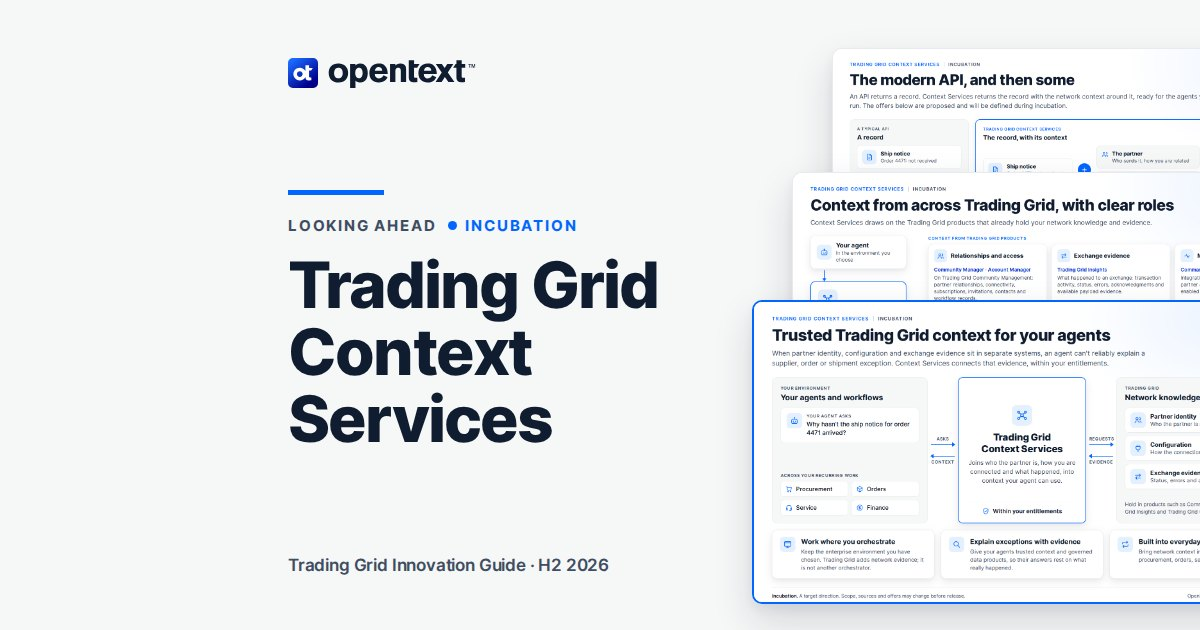
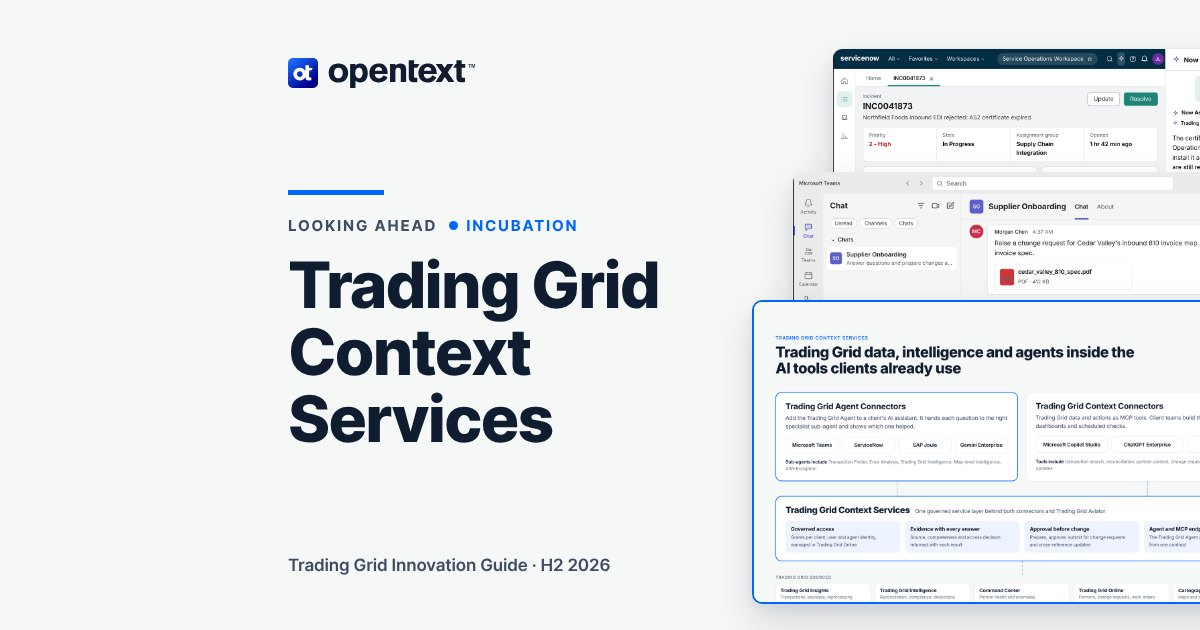
Context Services: new image set and incubation copy
Replace three Context Services images with the eight-image set (overview first,
seven prototype screens as gallery). Rewrite the entry from the image pack README.

Claude-Session: https://claude.ai/code/session_01FnMVd4489f9zxHZrqbzcah

diff --git a/site/index.html b/site/index.html
@@ -4240,17 +4240,19 @@ footer .ftop svg{flex:none}
   <div class="hd">
     <div class="label lbl">Trading Grid Context Services</div>
     <div class="ttl"><h3>Trading Grid Context Services</h3><span class="ga pv">Incubation</span></div>
-    <p class="deck">Trusted Trading Grid context for the AI agents and workflows you already use.</p>
+    <p class="deck">Trading Grid data, intelligence and agents inside the AI tools clients already use.</p>
   </div>
   <figure class="gal">
-    <button type="button" class="zoom" data-src="img/2026-h2/tgcs-why.png" aria-label="View full size: Your agents ask from the environment you choose, and Context Services returns partner, configuration and exchange evidence from Trading Grid, within your entitlements."><img src="img/2026-h2/tgcs-why.png" width="1672" height="941" alt="Diagram. On the left, your agents and workflows in your environment, with an agent asking why the ship notice for order 4471 has not arrived, across procurement, orders, service and finance. In the middle, Trading Grid Context Services, within your entitlements. On the right, Trading Grid network knowledge and evidence: partner identity, configuration and exchange evidence. Below, three outcomes: work where you orchestrate, explain exceptions with evidence, and built into everyday work."><span class="zi"><svg width="16" height="16" viewBox="0 0 16 16" aria-hidden="true" focusable="false"><path d="M9.5 2.5h4v4M13.5 2.5 9 7M6.5 13.5h-4v-4M2.5 13.5 7 9" fill="none" stroke="currentColor" stroke-width="1.5" stroke-linecap="round" stroke-linejoin="round"/></svg></span></button>
-    <figcaption aria-live="polite"><span class="stp">1 of 3</span> <span class="cap">Your agents ask from the environment you choose, and Context Services returns partner, configuration and exchange evidence from Trading Grid, within your entitlements.</span> <button type="button" class="vfs" tabindex="-1" aria-hidden="true">View full size</button></figcaption>
-    <div class="thumbs" role="group" aria-label="More pictures of Trading Grid Context Services"><button type="button" class="th" data-i="0" data-src="img/2026-h2/tgcs-why.png" data-w="1672" data-h="941" data-alt="Diagram. On the left, your agents and workflows in your environment, with an agent asking why the ship notice for order 4471 has not arrived, across procurement, orders, service and finance. In the middle, Trading Grid Context Services, within your entitlements. On the right, Trading Grid network knowledge and evidence: partner identity, configuration and exchange evidence. Below, three outcomes: work where you orchestrate, explain exceptions with evidence, and built into everyday work." data-cap="Your agents ask from the environment you choose, and Context Services returns partner, configuration and exchange evidence from Trading Grid, within your entitlements." data-short="Why Context Services" aria-label="Show screenshot 1 of 3: Why Context Services" hidden><img src="img/2026-h2/tgcs-why.png" width="1672" height="941" alt="" loading="lazy"><span class="tl"><span class="n">1</span>Why Context Services</span></button><button type="button" class="th" data-i="1" data-src="img/2026-h2/tgcs-sources.png" data-w="1672" data-h="941" data-alt="Diagram. Your agent connects through Trading Grid Context Services to context from Trading Grid products: relationships and access from Community Manager and Account Manager on Trading Grid Community Management; exchange evidence from Trading Grid Insights; monitoring from Command Center Integration Monitor; integration from Trading Grid Cartographer; change and provisioning from Trading Grid Community Projects and Community Provisioning Services; and bounded investigation from Trading Grid Aviator. Governed data products follow the catalog access path from the Trading Grid Data Explorer MCP interface to Trading Grid Data Platform." data-cap="Each Trading Grid source has a clear role, and governed data products are reached through the Trading Grid Data Explorer MCP interface, limited to what you are entitled to." data-short="Where the context comes from" aria-label="Show screenshot 2 of 3: Where the context comes from"><img src="img/2026-h2/tgcs-sources.png" width="1672" height="941" alt="" loading="lazy"><span class="tl"><span class="n">2</span>Where the context comes from</span></button><button type="button" class="th" data-i="2" data-src="img/2026-h2/tgcs-offers.png" data-w="1672" data-h="941" data-alt="Comparison. A typical API returns a ship notice record for order 4471 that has not been received. Context Services returns the same record plus the partner, the connection, the exchange and the changes around it. Below, three proposed offers: maintained context capabilities, cataloged data products, and specialized investigations once defined. Footer points: your own agents, your entitlements, your recurring work." data-cap="The modern API, and then some: the record with the network context around it, and three proposed offers to use with your own agents." data-short="What you could use" aria-label="Show screenshot 3 of 3: What you could use"><img src="img/2026-h2/tgcs-offers.png" width="1672" height="941" alt="" loading="lazy"><span class="tl"><span class="n">3</span>What you could use</span></button></div>
+    <button type="button" class="zoom" data-src="img/2026-h2/tgcs-overview.webp" aria-label="View full size: Trading Grid Context Services powers Trading Grid Agent Connectors and Trading Grid Context Connectors."><img src="img/2026-h2/tgcs-overview.webp" width="1600" height="1000" alt="Diagram. Two panels at the top: Trading Grid Agent Connectors (Microsoft Teams, ServiceNow, SAP Joule, Gemini Enterprise) and Trading Grid Context Connectors (Microsoft Copilot Studio, ChatGPT Enterprise, Claude). Both connect to a Trading Grid Context Services layer with governed access, evidence with every answer, approval before change, and agent and MCP endpoints. That layer draws on Trading Grid Insights, Trading Grid Intelligence, Command Center, Trading Grid Online and Cartographer."><span class="zi"><svg width="16" height="16" viewBox="0 0 16 16" aria-hidden="true" focusable="false"><path d="M9.5 2.5h4v4M13.5 2.5 9 7M6.5 13.5h-4v-4M2.5 13.5 7 9" fill="none" stroke="currentColor" stroke-width="1.5" stroke-linecap="round" stroke-linejoin="round"/></svg></span></button>
+    <figcaption aria-live="polite"><span class="stp">1 of 8</span> <span class="cap">Trading Grid Context Services powers Trading Grid Agent Connectors and Trading Grid Context Connectors.</span> <button type="button" class="vfs" tabindex="-1" aria-hidden="true">View full size</button></figcaption>
+    <div class="thumbs" role="group" aria-label="More pictures of Trading Grid Context Services"><button type="button" class="th" data-i="0" data-src="img/2026-h2/tgcs-overview.webp" data-w="1600" data-h="1000" data-alt="Diagram. Two panels at the top: Trading Grid Agent Connectors (Microsoft Teams, ServiceNow, SAP Joule, Gemini Enterprise) and Trading Grid Context Connectors (Microsoft Copilot Studio, ChatGPT Enterprise, Claude). Both connect to a Trading Grid Context Services layer with governed access, evidence with every answer, approval before change, and agent and MCP endpoints. That layer draws on Trading Grid Insights, Trading Grid Intelligence, Command Center, Trading Grid Online and Cartographer." data-cap="Trading Grid Context Services powers Trading Grid Agent Connectors and Trading Grid Context Connectors." data-short="Overview" aria-label="Show screenshot 1 of 8: Overview" hidden><img src="img/2026-h2/tgcs-overview.webp" width="1600" height="1000" alt="" loading="lazy"><span class="tl"><span class="n">1</span>Overview</span></button><button type="button" class="th" data-i="1" data-src="img/2026-h2/tgcs-teams.webp" data-w="1600" data-h="999" data-alt="Microsoft Teams group chat. A message with an attached PDF asks for an inbound 810 invoice map change request. The Trading Grid Agent replies with a pending change request card listing the request, work order, reason, attachment and project, and an approval prompt." data-cap="In Microsoft Teams, the Trading Grid Agent prepares a partner map change request from an attached specification and waits for approval. Prototype; the released experience may differ." data-short="Microsoft Teams" aria-label="Show screenshot 2 of 8: Microsoft Teams"><img src="img/2026-h2/tgcs-teams.webp" width="1600" height="999" alt="" loading="lazy"><span class="tl"><span class="n">2</span>Microsoft Teams</span></button><button type="button" class="th" data-i="2" data-src="img/2026-h2/tgcs-servicenow.webp" data-w="1600" data-h="999" data-alt="ServiceNow Service Operations Workspace with an incident for rejected inbound EDI. The Now Assist panel shows the Trading Grid Agent with Connection Health Agent, a work order card (request accepted, certificate received and validated, install and connection test remaining, owner BN Support Operations, no completion estimate) and connection status." data-cap="In ServiceNow, Now Assist answers from Trading Grid with the status of a partner certificate fix, attributed to the Connection Health sub-agent. Prototype; the released experience may differ." data-short="ServiceNow" aria-label="Show screenshot 3 of 8: ServiceNow"><img src="img/2026-h2/tgcs-servicenow.webp" width="1600" height="999" alt="" loading="lazy"><span class="tl"><span class="n">3</span>ServiceNow</span></button><button type="button" class="th" data-i="3" data-src="img/2026-h2/tgcs-chatgpt.webp" data-w="1600" data-h="999" data-alt="ChatGPT Enterprise with a Task scheduled card (weekdays at 8:00 AM) and a table of three on-hold work orders listing hold reason, next action owner and on-hold date." data-cap="ChatGPT Enterprise schedules a weekday check of on-hold Trading Grid work orders and shows who owns the next action. Prototype; the released experience may differ." data-short="ChatGPT Enterprise" aria-label="Show screenshot 4 of 8: ChatGPT Enterprise"><img src="img/2026-h2/tgcs-chatgpt.webp" width="1600" height="999" alt="" loading="lazy"><span class="tl"><span class="n">4</span>ChatGPT Enterprise</span></button><button type="button" class="th" data-i="4" data-src="img/2026-h2/tgcs-joule.webp" data-w="1600" data-h="999" data-alt="SAP S/4HANA purchase order page with Joule open. Joule shows Trading Grid Agent with Trading Grid Intelligence Agent: 33 of 37 POs carry a flat 50 USD chargeback, 1,650 USD in total, split into approved and pending supplier review, with a donut chart of the 37 POs by acknowledgment outcome." data-cap="In SAP Joule, the Trading Grid Agent combines SAP purchase orders with Trading Grid Intelligence chargebacks for late or missing PO acknowledgments. Prototype; the released experience may differ." data-short="SAP Joule" aria-label="Show screenshot 5 of 8: SAP Joule"><img src="img/2026-h2/tgcs-joule.webp" width="1600" height="999" alt="" loading="lazy"><span class="tl"><span class="n">5</span>SAP Joule</span></button><button type="button" class="th" data-i="5" data-src="img/2026-h2/tgcs-copilot-studio.webp" data-w="1600" data-h="999" data-alt="Copilot Studio agent Crestline short shipment monitor with instructions, a daily 7:00 AM trigger, a Teams channel, and the tool Trading Grid Context Connectors (MCP). The test pane shows yesterday&#x27;s 945 shipment confirmations matched against 940 shipping orders." data-cap="In Microsoft Copilot Studio, a client team builds and tests a shipment monitor on Trading Grid Context Connectors. Prototype; the released experience may differ." data-short="Copilot Studio" aria-label="Show screenshot 6 of 8: Copilot Studio"><img src="img/2026-h2/tgcs-copilot-studio.webp" width="1600" height="999" alt="" loading="lazy"><span class="tl"><span class="n">6</span>Copilot Studio</span></button><button type="button" class="th" data-i="6" data-src="img/2026-h2/tgcs-gemini.webp" data-w="1600" data-h="999" data-alt="Gemini Enterprise chat showing Trading Grid Agent with Transaction Finder Agent and Error Analysis Agent, and a BigQuery row card: run date, transaction ID, partner, document, error code, cause, owner and next action." data-cap="In Gemini Enterprise, a client-built agent calls the Trading Grid Agent to analyze a failed 856 and stores the result in BigQuery. Prototype; the released experience may differ." data-short="Gemini Enterprise" aria-label="Show screenshot 7 of 8: Gemini Enterprise"><img src="img/2026-h2/tgcs-gemini.webp" width="1600" height="999" alt="" loading="lazy"><span class="tl"><span class="n">7</span>Gemini Enterprise</span></button><button type="button" class="th" data-i="7" data-src="img/2026-h2/tgcs-claude.webp" data-w="1600" data-h="999" data-alt="Claude chat beside an interactive dashboard for one supplier over 90 days: ordered, shipped and invoiced unit tiles, invoices with no ASN flagged for review, weekly units bar chart, weekly roll-up tiles and an exceptions table by PO." data-cap="In Claude, a user builds an accounts payable reconciliation dashboard from Trading Grid 850, 856 and 810 data and adds a weekly roll-up agent. Prototype; the released experience may differ." data-short="Claude" aria-label="Show screenshot 8 of 8: Claude"><img src="img/2026-h2/tgcs-claude.webp" width="1600" height="999" alt="" loading="lazy"><span class="tl"><span class="n">8</span>Claude</span></button></div>
   </figure>
   <div class="txt">
-    <p>When partner identity, configuration and exchange evidence sit in separate systems, an agent can't reliably explain a supplier, order or shipment exception. Trading Grid Context Services is designed to connect that evidence within your entitlements, so the agents you run in the environment you choose can use the network knowledge and operational evidence held in Trading Grid. It is not another orchestrator: you keep the enterprise environment you have chosen.</p>
-    <ul><li><b>Work where you orchestrate:</b> connect the enterprise ecosystems you already use, with Trading Grid supplying the network evidence.</li><li><b>Context with clear sources:</b> relationships and access, exchange evidence, monitoring, integration, and change and provisioning context, each from the Trading Grid product that holds it.</li><li><b>Governed data products:</b> discover and use the data products cataloged in Trading Grid Data Platform through the Trading Grid Data Explorer MCP interface, limited to the products and operations you are entitled to.</li><li><b>Bounded investigations:</b> Trading Grid Aviator investigates within Trading Grid and returns its findings. It does not orchestrate your enterprise.</li><li><b>Built into everyday work:</b> context your agents use again and again in procurement, orders, service and finance.</li></ul>
-    <p>The modern API, and then some. Proposed offers are maintained context capabilities, cataloged data products and, once defined, specialized investigations, all for use with your own agents.</p>
+    <p>OpenText is incubating Trading Grid Context Services, a governed service layer that brings Trading Grid data, intelligence and agents into the AI ecosystems where clients already work. It is delivered through two connectors.</p>
+    <ul><li><b>Trading Grid Agent Connectors:</b> add the Trading Grid Agent, the agent behind Trading Grid Aviator, to Microsoft Teams, ServiceNow, SAP Joule and Gemini Enterprise. The agent hands each question to a specialist sub-agent and names the one that helped.</li><li><b>Trading Grid Context Connectors:</b> expose Trading Grid data and actions as MCP tools for the agents, dashboards and scheduled checks that client teams build in Microsoft Copilot Studio, ChatGPT Enterprise and Claude.</li><li><b>Governed access:</b> access is granted per client, user and agent identity in Trading Grid Online.</li><li><b>Evidence with every answer:</b> each answer returns its source, its completeness and the access decision.</li><li><b>Approval before change:</b> change requests and cross-reference updates follow prepare, approve, submit, with the approval shown in the client’s AI tool.</li><li><b>Client data with Trading Grid evidence:</b> in SAP Joule, one answer combines SAP order values and agreement terms with Trading Grid document timing.</li></ul>
+    <p>Operations, procurement and accounts payable teams get answers in the tools they already use: the status of a partner fix inside a ServiceNow incident, chargebacks for late PO acknowledgments inside an SAP purchase order, and shipment and invoice reconciliation inside a Claude dashboard.</p>
+    <p>Product Management, Engineering and Product Marketing are working with clients to validate use cases and shape delivery. Client conversations are welcome; include Product Management and Product Marketing.</p>
+    <p><b>Incubation.</b> Availability, pricing, packaging and timelines are not yet defined.</p>
   </div>
 </article>
 <article class="inn pv" id="pv-avstudio">
@@ -4699,7 +4701,7 @@ dlg.addEventListener('close',function(){st.innerHTML='';show(zi);op.focus({preve
     {title:'Analytics',deck:'Performance by KPI category, for suppliers, customers and logistics providers.',ul:[['Categorize','KPIs grouped into order fulfillment, shipping and delivery, invoicing and financial, and more.'],['Where to focus','the lowest-scoring KPIs that drag the rating down.']],out:'Separate signal from noise to see where your supply chain is strong, and where it needs improvement.'}
   ];
   var LA_DE=[{"title":"Visual Query Builder","deck":"Drag and drop metrics, dimensions and filters to build a query, with a live summary of what you are asking.","ul":[["Explore without SQL","investigate data with visual queries, filters, drill-downs and natural language."]]},{"title":"Data products","deck":"Start from curated, governed data products with every field ready to use.","ul":[["One governed data foundation","discover and reuse trusted data products with consistent business definitions."],["Secure by design","the same entitlements, access controls and policies across users and agents."]]},{"title":"Preview results","deck":"Check a live sample of your results before you generate the full report.","ul":[]},{"title":"Reports","deck":"Find, track and download every report you have generated, in one place.","ul":[["Retrieve data your way","on demand, or through scheduled exports, reusable views and bulk delivery."],["Agent-ready intelligence","Trading Grid Aviator and authorized AI agents can investigate data and perform approved actions through MCP."]],"out":"From investigating operational issues to preparing data for analytics and AI, Data Explorer makes governed data accessible and actionable."},{"title":"Governed MCP access to Trading Grid data","deck":"In incubation: governed MCP endpoints for Trading Grid’s data products, one per product, ready for internal applications and AI agents.","ul":[["Unified, agent-ready access","internal applications and AI agents use trusted business context through governed MCP endpoints, without custom integrations."],["Extensible, secure by design","Trading Grid Context Services reuses these endpoints to bring Trading Grid intelligence into external agents and workflows, with access controlled by client entitlements."]]}],LA_DI=[{"title":"Continuous service improvement","deck":"Use shared performance trends to align improvement priorities, measure progress and strengthen service over time.","ul":[["Client trends","ticket volumes, resolution times and missed SLAs, month over month."],["Service-level analysis","support demand across standard, premium and critical entitlements."],["Operational workload","ticket activity across support teams and service functions."]],"out":"OpenText and its clients work from the same information to agree priorities and measure progress."},{"title":"Shared operational view","deck":"A shared view of support activity, so OpenText and its clients work from consistent information and align on service performance.","ul":[["Common performance view","open and closed tickets, resolution times, first-contact resolution and SLA breaches."],["Shared issue visibility","support activity by client, product, problem area and service entitlement."],["Performance trends","changes in ticket volumes and SLA breaches over time."]],"out":"Both sides see what is happening, identify the issues that need attention and share a baseline for continuous improvement."},{"title":"Problem backlog","deck":"Identify recurring support problems, understand their impact and uncover where operations can improve.","ul":[["Problem analysis","the products and issue categories generating the most support demand."],["Client impact","which accounts experience the highest ticket volumes."],["Resolution efficiency","resolution-time distributions that show where to improve."],["Backlog visibility","aging tickets and unresolved issues that need attention."]],"out":"Teams move beyond resolving single tickets to jointly fixing the recurring problems that drive support demand."},{"title":"Period over period","deck":"Track support demand week over week and month over month, a shared measure of operational improvement.","ul":[["Performance comparison","weekly and monthly changes in ticket volume, as percentage increases or decreases."],["Product trends","which products drive changes in support demand."],["Problem area trends","recurring issues across data exchange, connectivity, applications and configuration."]],"out":"Progress is measured jointly over time, not point in time, and attention stays on the issues that still drive demand."},{"title":"Your data. Your KPIs.","deck":"Intelligence tailored to your business: work with OpenText to curate governed data products from your Trading Grid data, define the KPIs that matter and build your own dashboards and analytics.","ul":[["Your data products","identify, prepare and govern the data your business needs, together with OpenText."],["Your analytics","tailored dashboards, visualizations and intelligence around your processes and priorities."],["Your KPIs","meaningful business measures to monitor performance and track improvements."]],"out":"What will you build with your Trading Grid data? Tailored data products and intelligence are available as an additional value-added offering."}];
-  var LA_CS=[{"title":"Why Context Services","deck":"Your agents ask from the environment you choose. Context Services returns partner, configuration and exchange evidence from Trading Grid, within your entitlements.","ul":[["Work where you orchestrate","keep the enterprise environment you have chosen. Trading Grid adds network evidence; it is not another orchestrator."],["Explain exceptions with evidence","trusted context and governed data products behind every answer about a supplier, order or shipment."],["Built into everyday work","procurement, orders, service and finance."]]},{"title":"Where the context comes from","deck":"Each Trading Grid source has a clear role.","ul":[["Relationships and access","Community Manager and Account Manager, on Trading Grid Community Management."],["Exchange evidence","Trading Grid Insights."],["Monitoring","Command Center Integration Monitor."],["Integration","Trading Grid Cartographer."],["Change and provisioning","Trading Grid Community Projects and Community Provisioning Services."]],"out":"Governed data products come through the Trading Grid Data Explorer MCP interface, limited to what you are entitled to."},{"title":"The modern API, and then some","deck":"An API returns a record. Context Services returns the record with the network context around it.","ul":[["Maintained context capabilities","ready-to-use context about partners, connections, exchanges and changes."],["Cataloged data products","governed data products from Trading Grid Data Platform, through the Data Explorer MCP interface."],["Specialized investigations","bounded Trading Grid Aviator investigations, once defined."]],"out":"Use them with your own agents, within your entitlements."}];
+  var LA_CS=[{"title":"Overview","deck":"One governed service layer behind two connectors and Trading Grid Aviator.","ul":[["Trading Grid Agent Connectors","the Trading Grid Agent in Microsoft Teams, ServiceNow, SAP Joule and Gemini Enterprise."],["Trading Grid Context Connectors","Trading Grid data and actions as MCP tools in Microsoft Copilot Studio, ChatGPT Enterprise and Claude."],["Governed","identity-based access, evidence with every answer and approval before change."]]},{"title":"Microsoft Teams","deck":"The Trading Grid Agent prepares a partner map change request from an attached specification.","ul":[["Approval before change","the request waits for approval before it is submitted."]]},{"title":"ServiceNow","deck":"Now Assist answers with the status of a partner certificate fix, from the Connection Health sub-agent.","ul":[["Evidence in the incident","work order status, remaining steps, owner and connection status."]]},{"title":"ChatGPT Enterprise","deck":"A scheduled weekday check of on-hold Trading Grid work orders.","ul":[["Next action owner","each on-hold work order with its hold reason and who acts next."]]},{"title":"SAP Joule","deck":"The Trading Grid Agent combines SAP purchase orders with Trading Grid Intelligence chargebacks.","ul":[["Client data with Trading Grid evidence","SAP order values and agreement terms with Trading Grid document timing, in one answer."]]},{"title":"Copilot Studio","deck":"A client team builds and tests a shipment monitor on Trading Grid Context Connectors.","ul":[["Client-built agents","instructions, a daily trigger and a Teams channel, with Trading Grid as an MCP tool."]]},{"title":"Gemini Enterprise","deck":"A client-built agent calls the Trading Grid Agent to analyze a failed 856 and stores the result in BigQuery.","ul":[["Sub-agents named","every answer shows which specialist sub-agents helped."]]},{"title":"Claude","deck":"An accounts payable reconciliation dashboard built from Trading Grid 850, 856 and 810 data.","ul":[["Context Connectors in Claude","ordered, shipped and invoiced units, exceptions by PO and a weekly roll-up."]],"out":"Incubation. Availability, pricing, packaging and timelines are not yet defined."}];
   var LA_ASN=[{"title":"Risk insights and operational benchmarking","deck":"ASN Intelligence combines historical and real-time ASN data to monitor processing health, SLA performance and supplier risks.","ul":[["ASN health monitoring","transaction volumes, processing status, failures and trends."],["Supplier risk insights","recurring supplier issues and potential SLA violations."],["Proactive alerts","critical ASN issues surface before disruptions escalate."]],"out":"Actionable insights, operational benchmarking and proactive alerts help improve supplier performance, resolve issues faster and reduce disruptions."},{"title":"All ASNs","deck":"A unified view of every Advance Shipping Notice: processing status, SLA performance, trading partner and location.","ul":[["Centralized operational view","client and partner teams proactively monitor ASN acceptance, rejection and SLA adherence."],["Prioritize","quickly identify failures and the ASNs at risk of missing SLA."]],"out":"Investigate individual transactions to accelerate issue resolution."},{"title":"Remediation guidance","deck":"Understand why an ASN failed, which business rule it violated and what to correct to resubmit successfully.","ul":[["Plain-language explanations","technical validation issues translated into clear, business-friendly explanations."],["Submitted against expected","the invalid value shown beside the expected format."],["History","the processing pipeline and every prior resubmission."]],"out":"Suppliers and operations teams resolve exceptions faster, reduce repeated errors and keep ASN issues from disrupting downstream processing."},{"title":"Payload visibility","deck":"ASN line-item details, and the underlying payload in every form it took.","ul":[["Three forms of one message","as the supplier sent it, in canonical form and as the OEM received it."],["Search and compare","search within segments, compare payload views and see the technical data."]],"out":"Operations and support teams troubleshoot faster, validate message content with confidence and recover SLAs when ASN failures occur."},{"title":"ASN performance trends","deck":"Monitor ASN processing performance over time, including first-pass success, recoveries, failures and SLA adherence.","ul":[["Trends over time","first-pass, recovered and failed ASNs, day by day."],["Recurring failure patterns","failure categories ranked by issue volume, beside issues by risk level."],["Summary measures","average first pass, average SLA recovery rate and failed ASNs."]],"out":"Identify emerging trends and opportunities for improvement to reduce exceptions, accelerate recovery and strengthen supplier performance."}];
   var LA_SH=[{"title":"Packing hierarchy","deck":"View and maintain inner- and outer-package relationships, from containers and pallets down to cartons and the items they hold.","ul":[["Filter for missing attributes","highlight missing data to reduce errors."],["Apply the same value","enter a value such as container gross weight once, for one package, the selected packages or every package of the same type."]]},{"title":"Package and line views","deck":"Pivot between the packages and the shipment lines.","ul":[["Line view","each product line with how much of it is packed and the carton it is placed in."]],"out":"Be confident that your suppliers are providing complete, accurate shipment information."}];
   var LA_TGI=[{"title":"Transactions list","deck":"The Transactions page on JATO UX, with docked main navigation and a redesigned header bar.","ul":[["Standard interactions","components and patterns that behave the same way in every OpenText application."],["Filtering in place","active filters and Narrow by facets stay beside the results."]]},{"title":"Blended view","deck":"A transaction\u2019s details open in an expansion panel under its row.","ul":[["Details, flow, related transactions and payloads","all four on one panel, without leaving the list."]]},{"title":"Status icons","deck":"New status icons, read at a glance down a filtered list.","ul":[["Cleaner and more intuitive","delivery, processing and acknowledgment status in one look per row."]]},{"title":"Dashboard widgets","deck":"Widget creation in a modal: name it, choose source, grouping, time frame and result count, then save.","ul":[["Easier dashboards","a more intuitive creation flow, with refreshed widgets and wizards."]]},{"title":"Dark mode","deck":"Light and dark mode across the application, backed by the JATO color system.","ul":[["Built-in accessibility","the framework carries accessibility practices from the outset."]]}];

diff --git a/site/s/context-services/index.html b/site/s/context-services/index.html
@@ -1,4 +1,4 @@
-<!doctype html><html lang="en"><head><meta charset="utf-8"><meta name="viewport" content="width=device-width,initial-scale=1"><!--fav--><link rel="icon" href="/img/favicon/favicon.ico" sizes="any"><link rel="icon" href="/img/favicon/ot-mark.svg" type="image/svg+xml"><link rel="apple-touch-icon" href="/img/favicon/apple-touch-icon.png"><!--/fav--><title>Trading Grid Context Services · Trading Grid Innovation Guide H2 2026</title><meta name="description" content="Looking ahead, Incubation. Trusted Trading Grid context for the AI agents and workflows you already use."><meta property="og:type" content="website"><meta property="og:site_name" content="Trading Grid Innovation Guide"><meta property="og:title" content="Trading Grid Context Services · Trading Grid Innovation Guide H2 2026"><meta property="og:description" content="Looking ahead, Incubation. Trusted Trading Grid context for the AI agents and workflows you already use."><meta property="og:url" content="https://tg-innovation-guide.onrender.com/s/context-services/"><meta property="og:image" content="https://tg-innovation-guide.onrender.com/share/context-services.jpg?v=52d741b2"><meta property="og:image:type" content="image/jpeg"><meta property="og:image:width" content="1200"><meta property="og:image:height" content="630"><meta property="og:image:alt" content="Trading Grid Context Services, in the Trading Grid Innovation Guide H2 2026"><meta name="twitter:card" content="summary_large_image"><meta name="twitter:title" content="Trading Grid Context Services · Trading Grid Innovation Guide H2 2026"><meta name="twitter:description" content="Looking ahead, Incubation. Trusted Trading Grid context for the AI agents and workflows you already use."><meta name="twitter:image" content="https://tg-innovation-guide.onrender.com/share/context-services.jpg?v=52d741b2"><meta name="robots" content="noindex">
+<!doctype html><html lang="en"><head><meta charset="utf-8"><meta name="viewport" content="width=device-width,initial-scale=1"><!--fav--><link rel="icon" href="/img/favicon/favicon.ico" sizes="any"><link rel="icon" href="/img/favicon/ot-mark.svg" type="image/svg+xml"><link rel="apple-touch-icon" href="/img/favicon/apple-touch-icon.png"><!--/fav--><title>Trading Grid Context Services · Trading Grid Innovation Guide H2 2026</title><meta name="description" content="Looking ahead, Incubation. Trading Grid data, intelligence and agents inside the AI tools clients already use."><meta property="og:type" content="website"><meta property="og:site_name" content="Trading Grid Innovation Guide"><meta property="og:title" content="Trading Grid Context Services · Trading Grid Innovation Guide H2 2026"><meta property="og:description" content="Looking ahead, Incubation. Trading Grid data, intelligence and agents inside the AI tools clients already use."><meta property="og:url" content="https://tg-innovation-guide.onrender.com/s/context-services/"><meta property="og:image" content="https://tg-innovation-guide.onrender.com/share/context-services.jpg?v=175882e4"><meta property="og:image:type" content="image/jpeg"><meta property="og:image:width" content="1200"><meta property="og:image:height" content="630"><meta property="og:image:alt" content="Trading Grid Context Services, in the Trading Grid Innovation Guide H2 2026"><meta name="twitter:card" content="summary_large_image"><meta name="twitter:title" content="Trading Grid Context Services · Trading Grid Innovation Guide H2 2026"><meta name="twitter:description" content="Looking ahead, Incubation. Trading Grid data, intelligence and agents inside the AI tools clients already use."><meta name="twitter:image" content="https://tg-innovation-guide.onrender.com/share/context-services.jpg?v=175882e4"><meta name="robots" content="noindex">
 <script>(function(){var u=navigator.userAgent||"";if(/bot|crawler|spider|facebookexternalhit|Facebot|Twitterbot|LinkedInBot|WhatsApp|Slackbot|TelegramBot|Discordbot|SkypeUriPreview|MicrosoftPreview|Iframely|Embedly|redditbot|Pinterest|Applebot/i.test(u))return;var h=location.hash&&location.hash.length>1?location.hash:"#pv-tgcs";location.replace("/"+h);})();</script>
 <style>body{margin:0;padding:48px 24px;font:400 16px/24px Inter,-apple-system,"Segoe UI",Arial,sans-serif;color:#3F4D62;background:#fff}a{color:#0066FF;font-weight:700}</style></head>
 <body><p>Opening <a href="/#pv-tgcs">Trading Grid Context Services</a> in the Trading Grid Innovation Guide H2 2026.</p></body></html>
